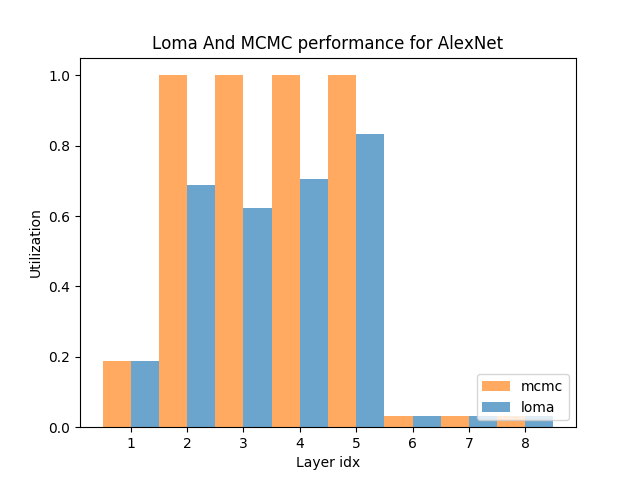
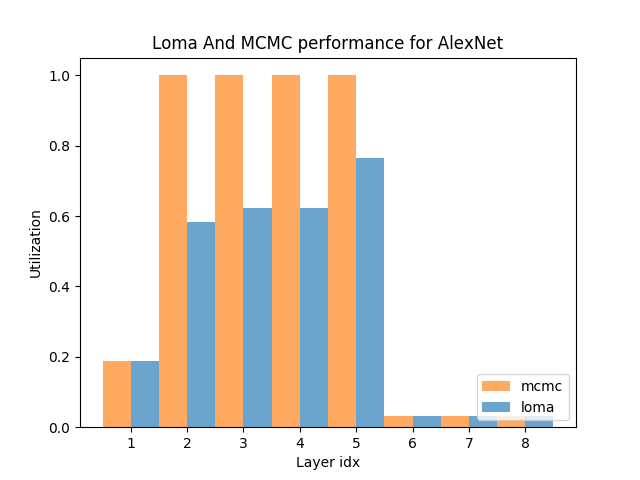
Error unpacking value loma got 9 expected 13

Changed region(s): [[0.5312, 0.2812, 0.625, 0.3438], [0.2812, 0.375, 0.3438, 0.4688], [0.4688, 0.375, 0.5312, 0.4375]]

diff --git a/temporal_mapping_optimizer/plots_generator/nn_perf_visualisation.py b/temporal_mapping_optimizer/plots_generator/nn_perf_visualisation.py
@@ -11,14 +11,14 @@ import importlib.machinery
 import matplotlib.pyplot as plt
 
 opt = "utilization"
-loma_lpf_limit = 7
+loma_exhaustive = True
 load_only = False
-nn_name = "AlexNet"
+nn_name = "MobileNet_v3_small"
 nn_path = "NN_layers/" + nn_name + ".py"
 plot_data_path = "temporal_mapping_optimizer/plots_data"
 plot_path = "temporal_mapping_optimizer/plots"
 
-def get_layer_perf(nn_name, layer_idx, loma_lpf_limit, plot_data_path, layer_post):
+def get_layer_perf(nn_name, layer_idx, loma_exhaustive, plot_data_path, layer_post):
 
     ######### Fixed Parameters #########
     settings_file_path = "inputs/settings.yaml"
@@ -70,32 +70,36 @@ def get_layer_perf(nn_name, layer_idx, loma_lpf_limit, plot_data_path, layer_pos
 
     # Find the lpf_limit giving the closest loma execution time to mcmc
     # For 907,200 combinations => 359 sec, we assume linear relation
-    lpf_limit = 5
-    delta_t_list = []
+    if loma_exhaustive:
+        lpf_limit = 99
+    else:
+        lpf_limit = 5
+        delta_t_list = []
 
-    for i in range(0, 10):
-        lpf_limit += 1
-        tl_list, nonmerged_count_dict, loop_type_order, tl_combinations = loma.og(layer_post, su, lpf_limit)
-        estimated_loma_exec_time = (359/907200)*tl_combinations
-        delta_t_list.append(abs(mcmc_exec_time - estimated_loma_exec_time))
+        for i in range(0, 10):
+            lpf_limit += 1
+            tl_list, nonmerged_count_dict, loop_type_order, tl_combinations = loma.og(layer_post, su, lpf_limit)
+            estimated_loma_exec_time = (359/907200)*tl_combinations
+            delta_t_list.append(abs(mcmc_exec_time - estimated_loma_exec_time))
 
-    lpf_limit = delta_t_list.index(min(delta_t_list)) + 5
+        lpf_limit = delta_t_list.index(min(delta_t_list)) + 5
+        print("TD with Mcmc :", min(delta_t_list))
+
     print("LPF Limit :", lpf_limit)
-    print("TD with Mcmc :", min(delta_t_list))
-
     settings_doc["temporal_mapping_search_method"] = "loma"
-
-    with open(settings_file_path, "w") as f:
-        yaml.dump(settings_doc, f)
-
-    settings_doc["max_nb_lpf_layer"] = loma_lpf_limit
+    settings_doc["max_nb_lpf_layer"] = lpf_limit
 
     with open(settings_file_path, "w") as f:
         yaml.dump(settings_doc, f)
 
     process = subprocess.Popen(run_zigzag_command.split(), stdout=subprocess.PIPE, text=True)
-    output, error = process.communicate()
-    print(output, error)
+    while True:
+        output = process.stdout.readline()
+        if process.poll() is not None:
+            break
+        if output:
+            print(output.strip())
+    rc = process.poll()
 
     ######### Load and return MCMC and LOMA result for this layer #########
     with open(data_file_path) as f:
@@ -158,7 +162,7 @@ for layer_idx in full_layer_range:
     if layer_idx in duplicate_layer_idx_dict:
         result = [mcmc_perf[duplicate_layer_idx_dict[layer_idx] - 1], loma_perf[duplicate_layer_idx_dict[layer_idx] - 1]]
     else:
-        result = get_layer_perf(nn_name, layer_idx, loma_lpf_limit, plot_data_path, layer_post_list[layer_idx - 1])
+        result = get_layer_perf(nn_name, layer_idx, loma_exhaustive, plot_data_path, layer_post_list[layer_idx - 1])
 
     if opt == "energy" or opt == "utilization":
         mcmc_perf.append(result[0])

diff --git a/loma.py b/loma.py
@@ -406,8 +406,6 @@ def og(layer_spec, spatial_unrolling, lpf_limit):
     """
     # Corresponding number for each loop_type
     lt_convert = {1: 'FX', 2: 'FY', 3: 'OX', 4: 'OY', 5: 'C', 6: 'K', 7: 'B'}
-    pprint(layer_spec)
-    pprint(spatial_unrolling)
     layer_spec_temporal = {}
 
     # Add all non-trivial loop_types of layer_spec to layer_spec_temporal
